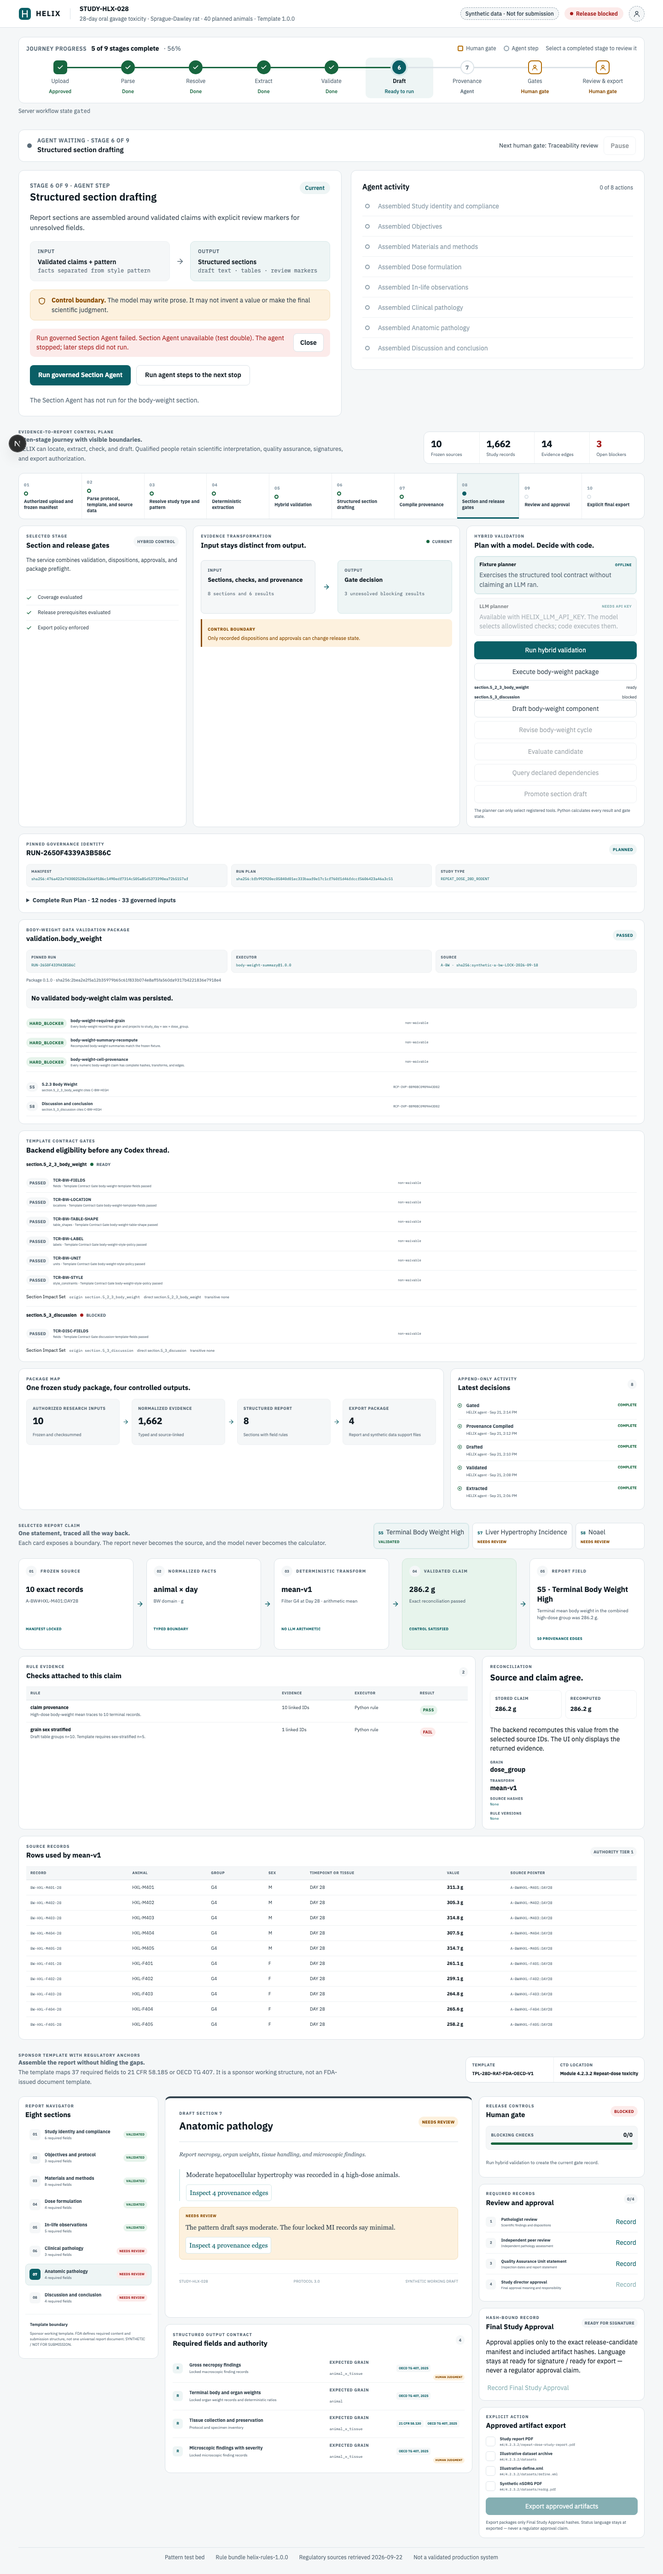
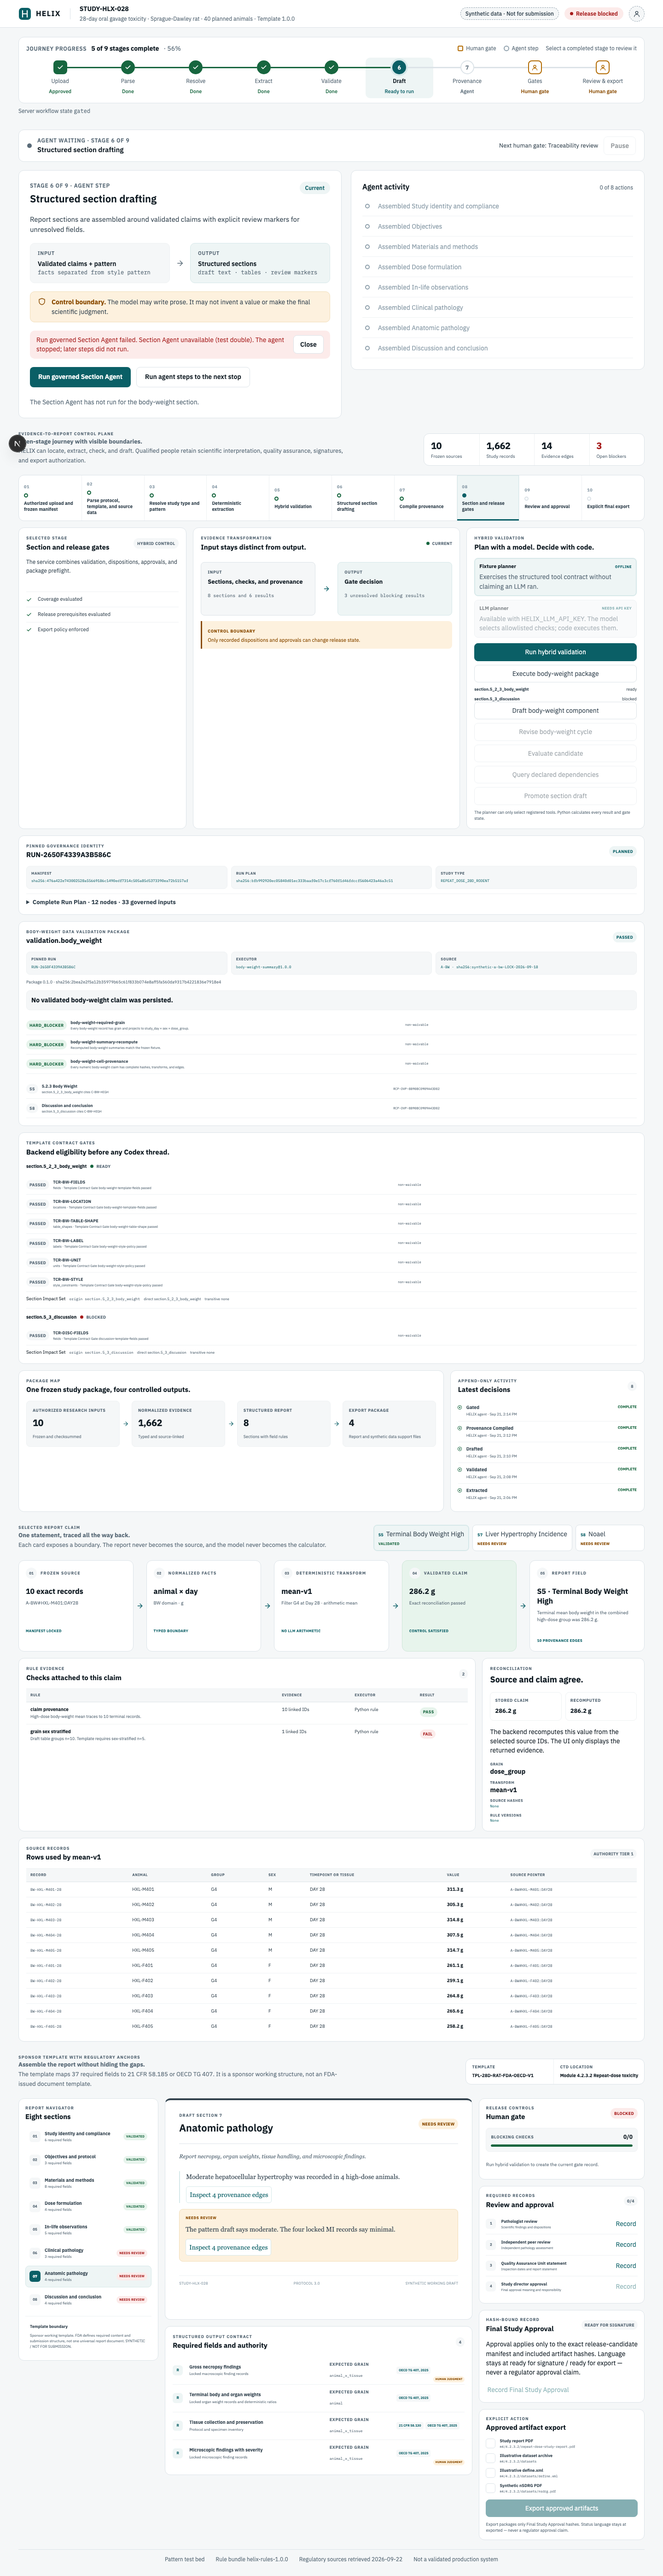
test(parity): enforce lane B Agent Step screens against /parity/agent (#21)
agent-run-banner-light, agent-stage-card-light, agent-activity-card-light and
agent-step-light are enforced and pass at 0.000% (verify-parity.sh on 8232/3232).
Parity fixes in lane B files: h1 margin and the baseline-aligned shield in the stage
card, and 18px activity icons as in the reference. Evidence in evidence/parity/.

diff --git a/steven/helix-prototypes/frontend/tests/parity/screens/lane-b.ts b/steven/helix-prototypes/frontend/tests/parity/screens/lane-b.ts
@@ -2,97 +2,76 @@ import type { ParityScreen } from "../types";
 
 // OWNER: Lane B (#21 Agent Steps + governed drafting).
 //
-// Our side needs a server state past Human gate 1: the journey projection must report an
-// Agent Step as current, and the page opens the current stage. The self-started
-// verify-parity.sh backend is freshly seeded (Upload current), so these screens stay
-// `pending` there. Run them against a lane server whose Pinned Run is frozen:
-//   HELIX_PARITY_BASE_URL=http://127.0.0.1:3032 HELIX_PARITY_INCLUDE_PENDING=1 \
-//   HELIX_PARITY_ONLY=agent-run-banner-light,agent-stage-card-light,agent-activity-card-light,agent-step-light \
-//   ./scripts/verify-parity.sh
-// After a freeze the server reports Validate (stage 5) current, which is the reference
-// `?stage=4`. Note: a local freeze is refused with `invalid_package_qualification` until
-// the agentic packages are qualified (or Lane D's demo-unqualified flag lands), so today
-// even a lane server cannot reach this state. A step-0 `/parity?fixture=agent` fixture
-// would let these run in CI (escalated: src/app/parity/** is shared).
+// Our side renders the real Agent Step view (AgentStageView, RunBanner, ActivityList)
+// over the display-only `/parity/agent?stage=N` fixture (src/app/parity/agent, flag-gated
+// by HELIX_PARITY_FIXTURES=1, no API calls). It mirrors the reference `?stage=N` state:
+// earlier stages done, stage N paused, agent not running. Stage 4 is Validate (stage 5
+// of 9), the reference stage with blocker actions.
 //
-// Deliberate, documented differences (masked):
-// - Pause/Resume are disabled until #26 (the button is masked on both sides).
-// - Activity rows come from the server projection, not the reference's 4 fixed actions.
-// - Our stage card adds governed commands, the polite live region, and receipt evidence
-//   below the control boundary; only the reference-shaped top of the card is compared.
-// - The banner says "Agent waiting" (no auto-run exists) where the reference says
-//   "Agent paused"; "Agent paused" is shown only when the server reports a paused run.
+// Deliberate, documented differences:
+// - Pause/Resume are disabled until #26, so the banner button is masked on both sides.
+// - Our stage card continues below the control boundary with receipt evidence from the
+//   server Workspace (not in the reference). It is hidden with `css` on our side so the
+//   reference-shaped card is compared.
 
 const REF = "?stage=4";
+const OURS = "/parity/agent?stage=4";
 const WAIT = '[data-testid="agent-stage-view"][data-stage="validate"]';
+const HIDE_EVIDENCE = '[data-testid="agent-stage-evidence"] { display: none !important; }';
 
 export const laneBScreens: ParityScreen[] = [
   {
     id: "agent-run-banner-light",
-    title: "Agent Step run banner, Validate current (#21)",
+    title: "Agent Step run banner, Validate paused (#21)",
     lane: "B",
     issue: "#21",
-    status: "pending",
+    status: "enforced",
     colorScheme: "light",
     reference: { path: REF, selector: "#hx-panel .hx-banner", mask: [".hx-banner-right .hx-btn"] },
     ours: {
-      path: "/",
+      path: OURS,
       selector: '[data-testid="agent-run-banner"]',
       waitFor: WAIT,
       mask: ['[data-testid="agent-pause"]'],
-      replaceText: [{ selector: '[data-testid="agent-run-banner"] .hx-kicker', text: "Agent paused · Stage 5 of 9" }],
     },
-    notes:
-      "replaceText maps our honest 'Agent waiting' kicker onto the reference 'Agent paused' copy so the diff measures layout and tokens only; the copy difference is deliberate (no auto-run until #25/#26).",
+    notes: "Resume agent is disabled until #26 adds the command; the button is masked on both sides.",
   },
   {
     id: "agent-stage-card-light",
-    title: "Agent Step stage card (summary, Input -> Output, control boundary) (#21)",
+    title: "Agent Step stage card: summary, Input -> Output, control boundary (#21)",
     lane: "B",
     issue: "#21",
-    status: "pending",
+    status: "enforced",
     colorScheme: "light",
     reference: { path: REF, selector: "#hx-panel .g-agent > section:first-child" },
-    ours: {
-      path: "/",
-      selector: '[data-testid="agent-stage-card"]',
-      waitFor: WAIT,
-      css: '[data-testid="agent-stage-card"] > :nth-child(n+5) { display: none !important; }',
-      replaceText: [{ selector: '[data-testid="agent-stage-chip"]', text: "Paused" }],
-    },
-    notes:
-      "Our card continues below the control boundary with governed commands, the live region, and receipt evidence (not in the reference); css hides those children so the reference-shaped top is compared. The chip text maps 'Current' onto the reference 'Paused'.",
+    ours: { path: OURS, selector: '[data-testid="agent-stage-card"]', waitFor: WAIT, css: HIDE_EVIDENCE },
+    notes: "Receipt evidence below the control boundary is lane B content with no reference counterpart; hidden on our side.",
   },
   {
     id: "agent-activity-card-light",
-    title: "Agent activity card header and row chrome (#21)",
+    title: "Agent activity card: 'n of 4 actions', queued rows (#21)",
     lane: "B",
     issue: "#21",
-    status: "pending",
+    status: "enforced",
     colorScheme: "light",
-    reference: { path: REF, selector: "#hx-panel .g-agent > section:last-child", mask: ["ol"] },
-    ours: {
-      path: "/",
-      selector: '[data-testid="agent-activity-card"]',
-      waitFor: WAIT,
-      mask: ['[data-testid="agent-activity"]', '[data-testid="agent-activity-count"]'],
-    },
-    notes: "Rows and the count come from the server projection (not the reference's fixed 4 actions); they are masked.",
+    reference: { path: REF, selector: "#hx-panel .g-agent > section:last-child" },
+    ours: { path: OURS, selector: '[data-testid="agent-activity-card"]', waitFor: WAIT },
   },
   {
     id: "agent-step-light",
-    title: "Agent Step view, whole panel, Validate current (#21)",
+    title: "Agent Step view, whole panel, Validate paused (#21)",
     lane: "B",
     issue: "#21",
-    status: "pending",
+    status: "enforced",
     colorScheme: "light",
-    reference: { path: REF, selector: "#hx-panel", mask: [".hx-banner-right .hx-btn", "ol"] },
+    reference: { path: REF, selector: "#hx-panel", mask: [".hx-banner-right .hx-btn"] },
     ours: {
-      path: "/",
-      selector: '[data-testid="agent-stage-view"]',
+      path: OURS,
+      selector: '[data-testid="fixture-agent-panel"]',
       waitFor: WAIT,
-      mask: ['[data-testid="agent-pause"]', '[data-testid="agent-activity"]'],
+      mask: ['[data-testid="agent-pause"]'],
+      css: HIDE_EVIDENCE,
     },
-    notes: "Whole-panel report only: our stage card is taller (commands and evidence), so the size difference is expected.",
+    notes: "Same masks and hidden evidence as the banner and stage-card screens.",
   },
 ];

diff --git a/steven/helix-prototypes/frontend/src/styles/views/agent.css b/steven/helix-prototypes/frontend/src/styles/views/agent.css
@@ -47,10 +47,12 @@
 #helix-e2e .hx-agent-planner { display: flex; gap: var(--hx-sp-16); border: 0; padding: 0; margin: 0; flex-basis: 100%; }
 /* Lane B (#21) layout parity with the reference agent view (section 5.5). */
 #helix-e2e .hx-agent-title-row { display: flex; justify-content: space-between; gap: var(--hx-sp-16); align-items: flex-start; }
-#helix-e2e .hx-agent-h { margin-top: 4px; }
+#helix-e2e .hx-card h1.hx-agent-h { margin-top: 4px; }
 #helix-e2e .hx-agent-summary { margin: 0; font-size: var(--hx-fs-lead); color: var(--hx-ink-2); }
 #helix-e2e .hx-agent-io-title { font-weight: var(--hx-fw-semibold); margin-top: 4px; }
 #helix-e2e .hx-agent-shield { color: var(--hx-warn); flex-shrink: 0; }
+/* The reference renders the shield as a plain inline svg on the text baseline. */
+#helix-e2e .hx-agent-shield .hx-icon { vertical-align: baseline; }
 #helix-e2e .hx-agent-activity-head { display: flex; justify-content: space-between; align-items: baseline; margin-bottom: var(--hx-sp-8); }
 #helix-e2e .hx-agent-activity-head .hx-sub { margin: 0; font-size: var(--hx-fs-meta); }
 #helix-e2e .hx-agent-acts { list-style: none; margin: 0; padding: 0; }

diff --git a/steven/helix-prototypes/frontend/src/components/agent/ActivityList.tsx b/steven/helix-prototypes/frontend/src/components/agent/ActivityList.tsx
@@ -46,11 +46,11 @@ export function ActivityList({ stage, inFlightLabel }: { stage: JourneyStage; in
               <span className="ic" aria-hidden="true">
                 {recorded && tag === "Blocker" ? (
                   <span className="hx-agent-ic block">
-                    <WarnIcon size={16} />
+                    <WarnIcon />
                   </span>
                 ) : recorded ? (
                   <span className="hx-agent-ic pass">
-                    <CheckIcon size={16} />
+                    <CheckIcon />
                   </span>
                 ) : (
                   <span className="hx-hollow" />
